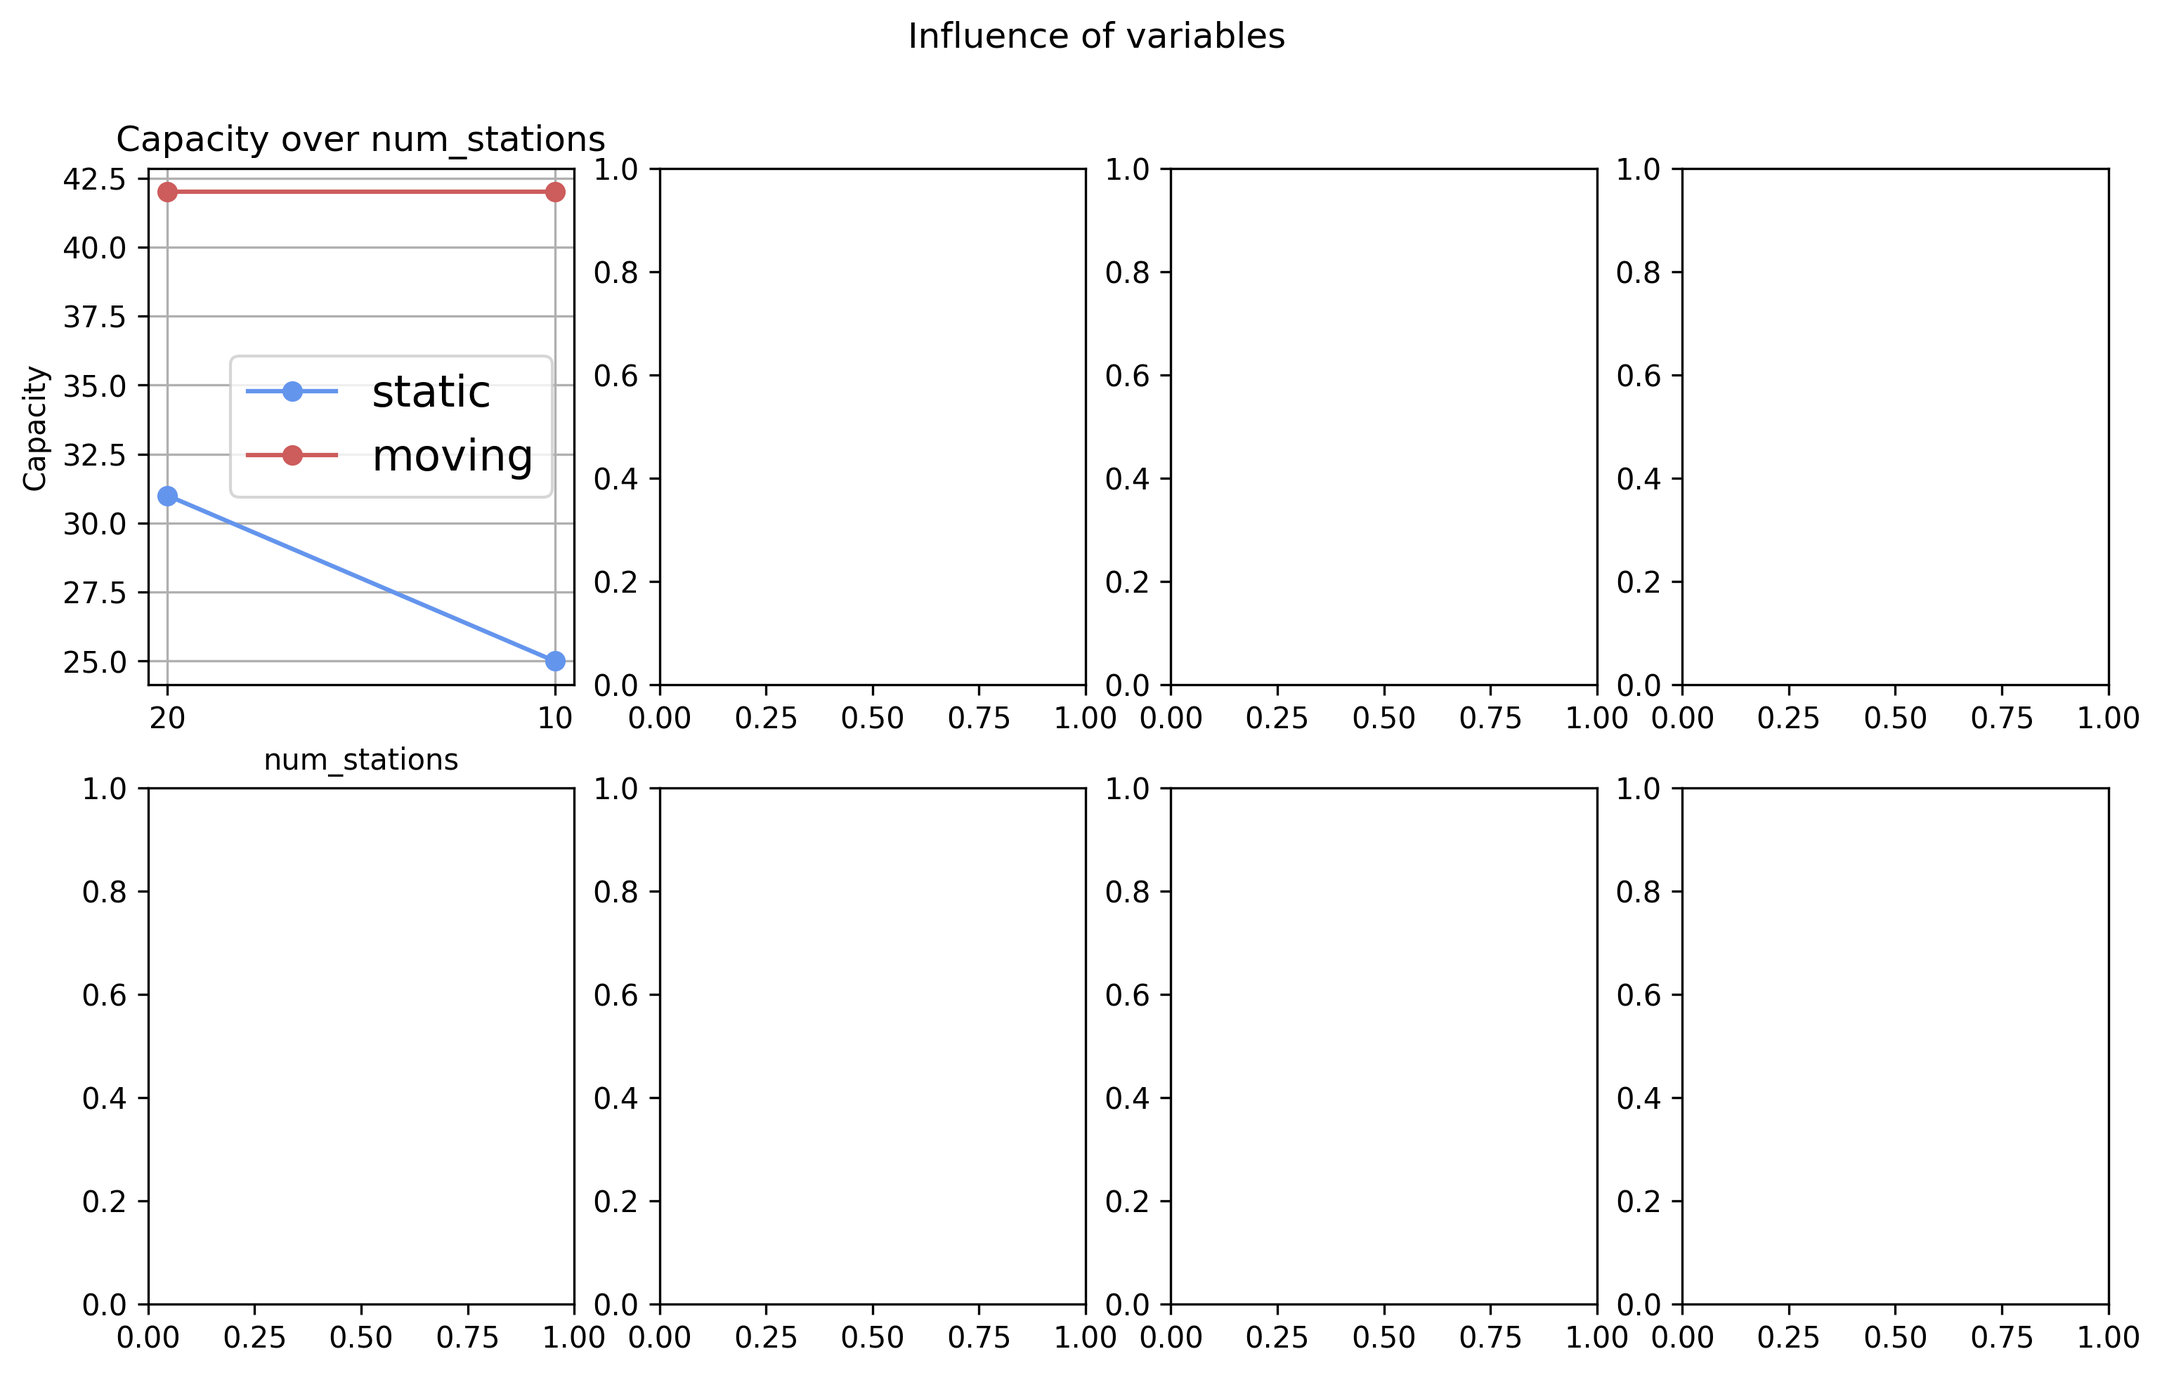
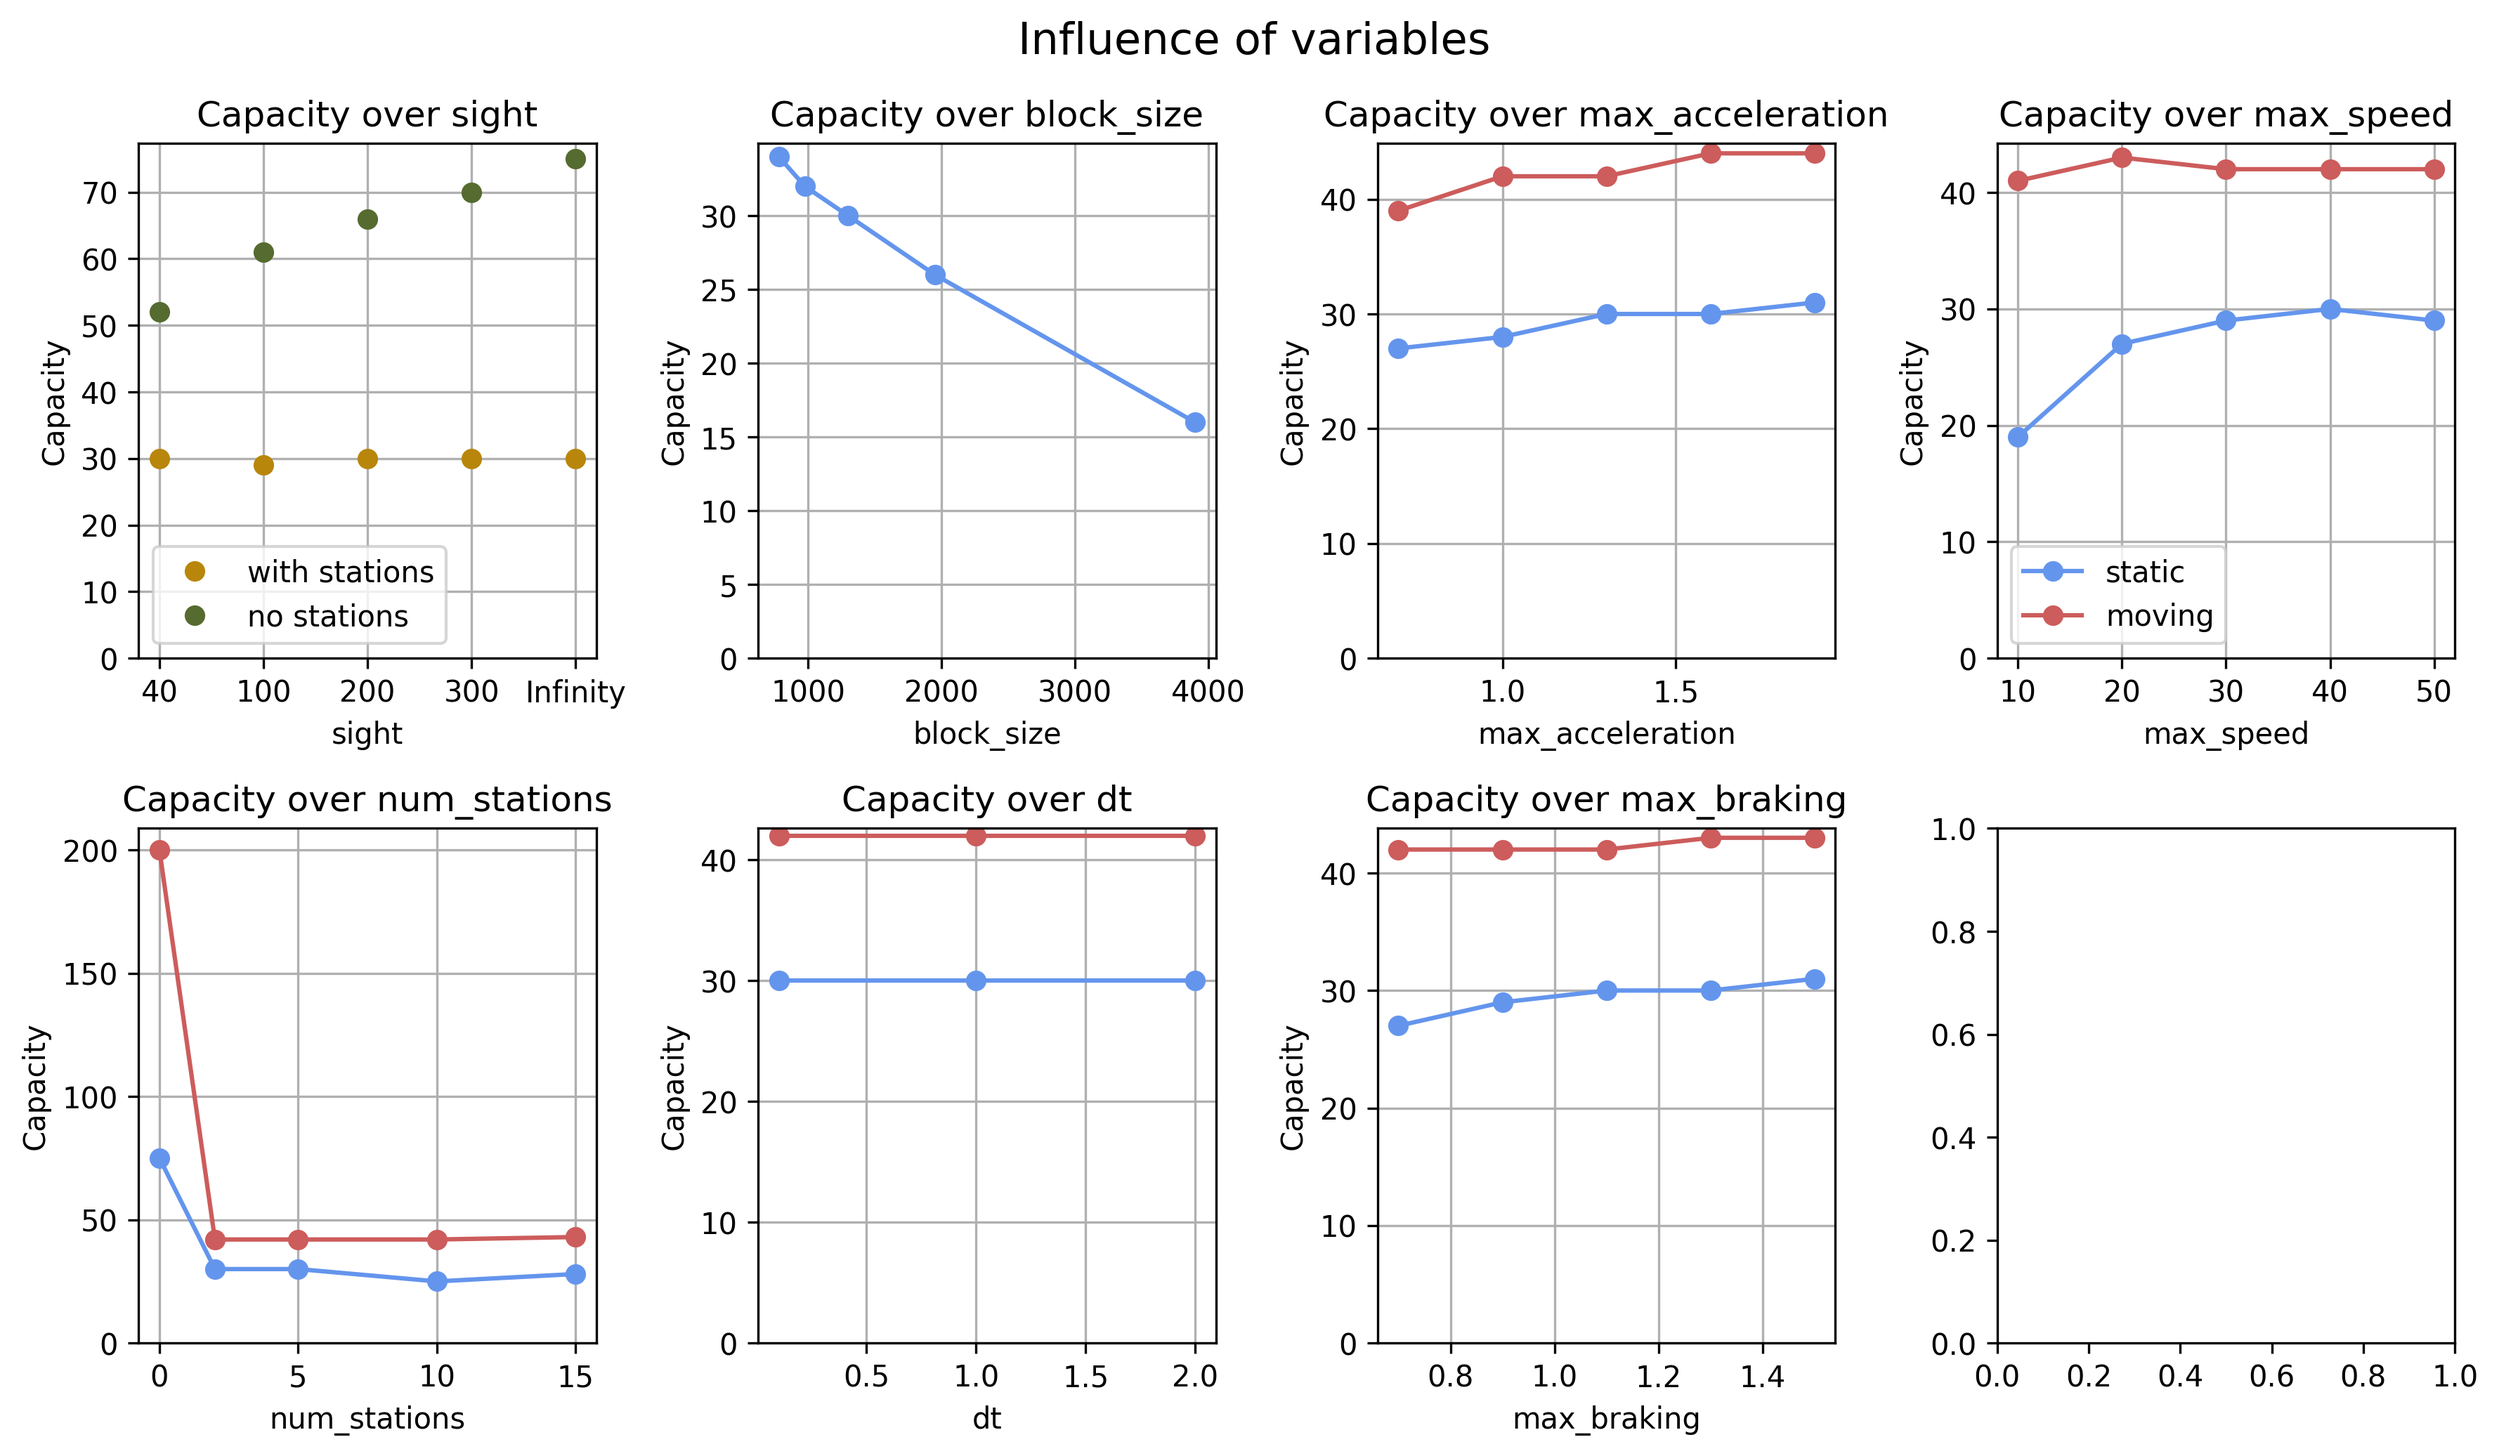
ran result a couple times

diff --git a/analysis/graphVariablesEffect.py b/analysis/graphVariablesEffect.py
@@ -9,27 +9,44 @@ with open("result_variables.json", 'r') as fp:
 # Prepare data
 data_to_plot = {}
 for variable_name, experiment in data.items():
-    data_to_plot[variable_name] = {"y": [], "x": []}
+    data_to_plot[variable_name] = {"y": {"moving": [], "static": []}, "x": []}
     for value, result in experiment.items():
         static_max = max(result, key=lambda x: x[1][0][0])[1][0][0]
-        moving_max = max(result, key=lambda x: x[1][0][1])[1][0][1]
-        data_to_plot[variable_name]['y'].append([static_max, moving_max])
+        data_to_plot[variable_name]['y']['static'].append([static_max])
+
+        value = value if variable_name == "sight" else float(value)
         data_to_plot[variable_name]['x'].append(value)
-print(data_to_plot)
+
+        if variable_name not in ["sight", "sight_no_station", "block_size"]:
+            moving_max = max(result, key=lambda x: x[1][0][1])[1][0][1]
+            data_to_plot[variable_name]['y']['moving'].append([moving_max])
+        else:
+            data_to_plot[variable_name]['y']['moving'].append([None])
+
 
 fig, axs = plt.subplots(2, 4, figsize=(12, 7))
+
 i = 0
 for variable_name, plot_data in data_to_plot.items():
+    if variable_name == "sight_no_station":
+        continue
     ax = axs[i%2][i//2]
-    plot_data_y = np.array(plot_data['y'])
-    ax.plot(plot_data['x'], plot_data_y[:, 0], label='static', marker='o', color="cornflowerblue")
-    ax.plot(plot_data['x'], plot_data_y[:, 1], label='moving', marker='o', color="indianred")
+    i += 1
+    if variable_name == "sight":
+        ax.plot(plot_data['x'], plot_data['y']['static'], label='with stations', marker='o', linestyle='', color="darkgoldenrod")
+        ax.plot(plot_data['x'], data_to_plot['sight_no_station']['y']['static'], label='no stations', marker='o', linestyle='', color="darkolivegreen")
+        ax.legend()
+    else:
+        ax.plot(plot_data['x'], plot_data['y']['static'], label='static', marker='o', color="cornflowerblue")
+        ax.plot(plot_data['x'], plot_data['y']['moving'], label='moving', marker='o', color="indianred")
     ax.set_xlabel(variable_name)
     ax.set_ylabel("Capacity")
     ax.set_title(f"Capacity over {variable_name}")
     ax.grid(True)
+    ax.set_ylim(bottom=0)
 
-ax.legend(fontsize=15)
-fig.suptitle("Influence of variables")
+ax.legend()
+fig.suptitle("Influence of variables", fontsize=15)
+fig.tight_layout()
 plt.savefig("../plots/variable_effect.png", bbox_inches="tight", dpi=300)
 plt.show()

diff --git a/analysis/variablesEffect.py b/analysis/variablesEffect.py
@@ -1,4 +1,5 @@
 import math
+import copy
 from trainSpecifications import *
 from runExperiment import *
 
@@ -18,6 +19,24 @@ experiment_definitions_model = {
          "run_moving": False}
     ],
 
+    "sight_no_station": [
+        {"sight": 40,
+         "num_stations": 0,
+         "run_moving": False},
+        {"sight": 100,
+         "num_stations": 0,
+         "run_moving": False},
+        {"sight": 200,
+         "num_stations": 0,
+         "run_moving": False},
+        {"sight": 300,
+         "num_stations": 0,
+         "run_moving": False},
+        {"sight": math.inf,
+         "num_stations": 0,
+         "run_moving": False}
+    ],
+
     "num_stations": [
         {"num_stations": 0},
         {"num_stations": 2},
@@ -27,11 +46,16 @@ experiment_definitions_model = {
     ],
 
     "block_size": [
-        {"block_size": 750},
-        {"block_size": 1150},
-        {"block_size": 1500},
-        {"block_size": 2000},
-        {"block_size": 3000}
+        {"block_size": 3900/5,
+         "run_moving": False},
+        {"block_size": 3900/4,
+         "run_moving": False},
+        {"block_size": 3900/3,
+         "run_moving": False},
+        {"block_size": 3900/2,
+         "run_moving": False},
+        {"block_size": 3900,
+         "run_moving": False}
     ],
 
     "dt": [
@@ -57,21 +81,20 @@ for variable_name, options in experiment_definitions_model.items():  # options i
         wide = run_experiment(**option, run_repetitions=False)
         result[option[variable_name]] = wide
     experiment_results[variable_name] = result
+    fp = open("result_variables.json", "w")
+    json.dump(experiment_results, fp)
+    fp.close()
 
-fp = open("result_variables_tmp.json", "w")
-json.dump(experiment_results, fp)
-fp.close()
 
 for variable_name, options in experiment_definitions_train.items():  # options is a list of ints
     result = {}
-    train = sng_specifications.deepcopy()
+    train = copy.deepcopy(sng_specifications)
     for option in options:
         print(f"Running {option}")
         train[variable_name] = option
         wide = run_experiment(train_specifications=[train], run_repetitions=False)
         result[option] = wide
     experiment_results[variable_name] = result
-
-fp = open("result_variables.json", "w")
-json.dump(experiment_results, fp)
-fp.close()
+    fp = open("result_variables.json", "w")
+    json.dump(experiment_results, fp)
+    fp.close()

diff --git a/analysis/tools.py b/analysis/tools.py
@@ -96,7 +96,7 @@ def blocks_from_distances(model, rail_length, distances, station_size, block_siz
     """
     Takes the distances between stations and other variables to get stations and blocks in model
     """
-    if signalling_type == "static":
+    if signalling_type == "static" and len(distances) > 0:
         assert(min(distances) >= block_size + station_size)
 
     if len(distances) == 0:  # no stations
@@ -184,21 +184,21 @@ def test_capacity_trains(trainless_models: [Railroad], trains=[sng_specification
                     continue
 
                 # wind up to let trains space optimally
-                for i in range(wind_up // model.dt):
+                for i in range(int(wind_up / model.dt)):
                     model.step()
 
                 # calculate capacity
                 passes = 0
                 check = Position(0, 1, model.signalling_control.length)
                 was_occupied = model.signalling_control.position_contains_train(check)
-                for i in range(test_length // model.dt):
+                for i in range(int(test_length / model.dt)):
                     model.step()
                     occupied = model.signalling_control.position_contains_train(check)
                     if occupied and not was_occupied:
                         passes += 1
                     was_occupied = occupied
 
-                capacity = float(passes) / (float(test_length)) * 60**2
+                capacity = float(passes) / float(test_length) * 60**2
                 capacity_both.append(capacity)
             capacities.append(capacity_both)
         result.append([n, capacities])
